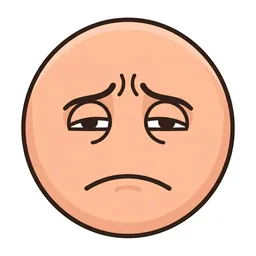
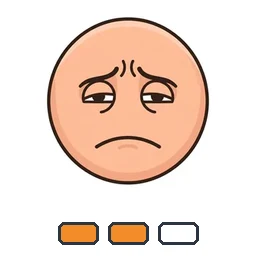
Phase 17 D and E: who it is for on the first screen; back from behind, the pain bars, Change it, the check
- D: under the hope line 'For you and someone with aphasia: you ask, hand them the phone,
  they point.'; the first block 'Type your question. We make picture answers.', the
  button 'Make picture answers'; the line under it says Google checks this browser first.
- E: the back (and upper and lower back) drawn from behind: hair, no face, the spine;
  'a little', 'quite bad', 'very bad' carry 1, 2 and 3 filled bars; 'Change it' opens
  About them at the emergency number, focused; one call box when an alert carries its
  own (phase 17 A); the check says 'Is that it?' beside a side and says a yes or no back
  in its own words ('So: yes, you are in pain. Right?').
- tests: phase17e.test.ts (4) and the D test in phase17g.test.ts, failing first at main.

diff --git a/web/src/main.ts b/web/src/main.ts
@@ -79,7 +79,7 @@ import { addEvent, cleanLog, lessSureCount, newLog, pickedPractice, practiceFlag
 import { passportLink, passportScreen, practiceScreen, type PassPicture } from './care7';
 import { fallbackLine, fallbackWhy, ownAfter, ownCard, ownFallbackCard, ownWaiting } from '../../core/ownwords';
 import { P16 } from '../../core/copy16';
-import { P17 } from '../../core/copy17';
+import { P17, soCheck } from '../../core/copy17';
 
 const $ = <T extends HTMLElement>(sel: string) => document.querySelector(sel) as T;
 const esc = (s: string) => s.replace(/[&<>"']/g, (c) => ({ '&': '&amp;', '<': '&lt;', '>': '&gt;', '"': '&quot;', "'": '&#39;' })[c]!);
@@ -1574,7 +1574,7 @@ function personView(full: boolean): string {
   }
   if (state.picked) {
     // a "no" or "not sure" sits in a neutral frame: never a giant cross above yes / change (§2.14)
-    return `${exit}<h2 class="headline">${esc(C.person.so(state.picked.label))}</h2>
+    return `${exit}<h2 class="headline">${esc(soCheck(state.picked.label, state.card?.kind === 'yesno' ? state.card.asked : ''))}</h2>
       <div class="confirm-pic ${state.picked.label === 'no' || state.picked.label === 'not sure' ? 'neutral' : ''}">${picture(state.picked)}<p>${esc(state.picked.label)}</p></div>
       <div class="tiles two"><button class="tile yes" data-confirm="yes">${TICK}<span>${C.person.yes}</span></button>
       <button class="tile" data-confirm="change">${CROSS}<span>${C.person.change}</span></button></div>`;
@@ -2914,7 +2914,13 @@ function act(el: HTMLElement) {
     case 'speak-yes': p5.speakSheet = false; if (state.demo) { p15speak.on = true; p15speak.ok = true; } else { state.settings.speak = true; state.settings.speakOk = true; saveSettings(); } render(); break;
     case 'speak-no': p5.speakSheet = false; render(); break;
     case 'speak-off': if (state.demo) p15speak.on = false; else { state.settings.speak = false; saveSettings(); } stopSound(); render(); break;
-    case 'sudden-number': state.aboutRow = 'health'; go('about'); window.scrollTo(0, 0); break;
+    // (phase 17, judge round 12, R11-P1-3 still open: "Change it" landed at the top of About them) the number field, open and focused
+    case 'sudden-number': {
+      state.aboutRow = 'health'; go('about');
+      const focusNumber = () => { const f = document.querySelector<HTMLInputElement>('#emergency-number'); if (!f) return false; f.scrollIntoView({ block: 'center' }); f.focus({ preventScroll: true }); return true; };
+      if (!focusNumber()) requestAnimationFrame(() => { if (!focusNumber()) window.scrollTo(0, 0); });
+      break;
+    }
     case 'log-undo': state.diary = removeEntry(state.diary, el.dataset.id ?? ''); saveDiary(); state.logged = null; render(); document.querySelector<HTMLElement>('#log-row button')?.focus({ preventScroll: true }); break;
     case 'diary-tab': state.diaryTab = el.dataset.tab as Span; state.logged = null; state.diaryCopied = false; render(); document.querySelector<HTMLElement>(`#tab-${state.diaryTab}`)?.focus({ preventScroll: true }); break;
     case 'diary-copy': {

diff --git a/core/copy16.ts b/core/copy16.ts
@@ -9,23 +9,25 @@ export type OwnFallbackWhy = 'no' | 'offline' | 'check' | 'failed' | 'none';
 
 export const P16 = {
   own: {
-    heading: 'Ask in your own words',
+    // (phase 17, judge round 12, the cold 10-second test 3/5: "Make the choices: who chooses?")
+    heading: 'Type your question. We make picture answers.',
     /** The field's example: an open question, the kind the rules cannot turn into choices and the AI can. */
     field: 'What would you like for lunch?',
     label: 'Your question, as you would say it',
     /** One line at 360 px (the name would wrap it): the card screen's button says whom they are for. */
-    make: 'Make the choices',
+    make: 'Make picture answers',
     /** One line under the button: what happens to the words, by where the AI runs here (core/simple.ts, aiPlace). */
     where: {
-      device: "Chrome's own AI on this computer makes the choices. Nothing is sent.",
-      ask: "Google's AI makes the choices, online, after your yes. Names you listed are swapped out.",
-      cloudOn: "Google's AI makes the choices, online (online help is on). Names you listed are swapped out.",
+      device: "Chrome's own AI on this computer makes them. Nothing is sent.",
+      // (phase 17: App Check starts when the field gets the cursor, so the line says so; no word of the question goes)
+      ask: "Google's AI makes them, online, after your yes. Google checks this browser first; your words wait for the yes.",
+      cloudOn: "Google's AI makes them, online (online help is on). Google checks this browser first.",
       offline: "You are offline: the app's rules make what they can from your words.",
       none: "This copy has no AI set up: the app's rules make what they can from your words.",
       checking: 'The app is checking where its AI can run here.',
     } as Record<string, string>,
     /** Under the "where" line, always: what never goes to an AI. */
-    never: "Pain, the body, feelings, warning signs: never to an AI, only the app's rules.",
+    never: "Pain, the body, warning signs: the app's fixed rules answer, never an AI.",
     topicsHeading: 'Or pick a topic',
   },
   /** The line over a card the rules made because the words were about care, a warning sign or a crisis. */

diff --git a/web/src/pictos.ts b/web/src/pictos.ts
@@ -58,6 +58,9 @@ const note = (x: number, y: number, fill: string) => `<path d="M${x + 10} ${y + 
 // The body figure faces the viewer, so the person's LEFT is on the viewer's right (x > 48). Labels say "your left arm".
 const HI = C.red;
 const BODY_OUTLINE = `<path d="M34 30l-12 28M62 30l12 28" stroke="${C.skinShade}" stroke-width="7"/><path d="M38 64l-4 26M58 64l4 26" stroke="${C.navy}" stroke-width="8"/><path d="M34 28h28l4 36H30z" fill="${C.sky}"/><circle cx="48" cy="14" r="9" fill="${C.skin}"/>`;
+/** Phase 17: the same figure seen from behind: the back of the head (hair, no face), the spine, a turn-round arrow. */
+const BODY_BEHIND = `<path d="M34 30l-12 28M62 30l12 28" stroke="${C.skinShade}" stroke-width="7"/><path d="M38 64l-4 26M58 64l4 26" stroke="${C.navy}" stroke-width="8"/><path d="M34 28h28l4 36H30z" fill="${C.sky}"/><circle cx="48" cy="14" r="9" fill="${C.hair}"/><path d="M41 9c4-3 10-3 14 0" stroke="${C.black}" stroke-width="2"/><path d="M48 31v31" stroke="${C.navy}" stroke-width="2"/><path d="M45 36h6M45 44h6M45 52h6" stroke="${C.navy}" stroke-width="2"/><path d="M76 10a9 9 0 11-9-6" stroke="${OUTLINE}" stroke-width="3"/><path d="M64 1l4 4-5 3" stroke="${OUTLINE}" stroke-width="3"/>`;
+const BACK_PARTS = ['back', 'upper back', 'lower back'];
 const BODY_HIGHLIGHT: Record<string, string> = {
   head: `<circle cx="48" cy="14" r="9" fill="${HI}"/>`,
   face: `<circle cx="48" cy="15" r="6.5" fill="${HI}" stroke="none"/>`,
@@ -244,7 +247,9 @@ export const imageFile = (id: string) => `pictures/${id.replace(/[^a-z0-9]+/g, '
 export function svgPicto(id: string): string {
   if (id.startsWith('body:')) {
     const part = id.slice(5);
-    return svg(BODY_OUTLINE + (BODY_HIGHLIGHT[part] ?? ''), part);
+    // (phase 17, judge round 12, seat 02n, ADV-02n-4: "back" read as the chest) the back is drawn from behind: hair over the
+    // whole head, no face, the spine down the middle, and a small arrow that turns round
+    return svg((BACK_PARTS.includes(part) ? BODY_BEHIND : BODY_OUTLINE) + (BODY_HIGHLIGHT[part] ?? ''), part);
   }
   return svg(P[id] ?? P['something else'], id);
 }

diff --git a/tests/unit/phase17e.test.ts b/tests/unit/phase17e.test.ts
@@ -1,0 +1,34 @@
+// Phase 17 E (judge round 12, P1s: seats 02n, 05, 13, 13b), written before the code (failing first: devlog/evidence_phase17/).
+import { readFileSync } from 'node:fs';
+import { join } from 'node:path';
+import { describe, expect, it } from 'vitest';
+import { svgPicto as picto } from '../../web/src/pictos';
+
+const ROOT = join(__dirname, '..', '..');
+
+describe('E. pictures and checks', () => {
+  it('the back is drawn from behind: hair over the head and the spine, not the front figure', () => {
+    const back = picto('body:back');
+    const chest = picto('body:chest');
+    expect(back).not.toBe(chest.replace('chest', 'back'));
+    expect(back).toContain('M48 31v31');
+    expect(chest).not.toContain('M48 31v31');
+  });
+  it('"a little", "quite bad" and "very bad" carry 1, 2 and 3 filled bars (the pictures differ at a glance)', () => {
+    const md = readFileSync(join(ROOT, 'PICTOGRAMS.md'), 'utf8');
+    expect(md).toMatch(/phase 17: one, two and three filled bars/);
+  });
+  it('"Change it" opens About them at the emergency number, focused', () => {
+    const main = readFileSync(join(ROOT, 'web/src/main.ts'), 'utf8');
+    expect(main).toContain("const f = document.querySelector<HTMLInputElement>('#emergency-number');");
+    expect(main).toContain('f.focus({ preventScroll: true });');
+  });
+  it('the check never puts "Right?" beside a side, and says a yes or no back in its own words', async () => {
+    const { soCheck } = await import('../../core/copy17');
+    expect(soCheck('your left arm')).toBe('So: your left arm. Is that it?');
+    expect(soCheck('yes', 'Are you in pain?')).toBe('So: yes, you are in pain. Right?');
+    expect(soCheck('no', 'Are you in pain?')).toBe('So: no, you are not in pain. Right?');
+    expect(soCheck('yes', 'Would you like milk in it?')).toBe('So: yes, you would like milk in it. Right?');
+    expect(soCheck('tea')).toBe('So: tea. Right?');
+  });
+});

diff --git a/core/copy17.ts b/core/copy17.ts
@@ -30,3 +30,31 @@ export const P17 = {
   shortBy: "Google's AI wrote the short question on their screen. Say yours out loud as well.",
   shortByDevice: "Chrome's own AI wrote the short question on their screen. Say yours out loud as well.",
 };
+
+/**
+ * Phase 17 (judge round 12, seats 02n and 13: "So: your left arm. Right?" puts "Right?" beside a side, and "So: yes.
+ * Right?" after "Are you in pain?" says nothing of what was answered): the check on the person's screen. A side is
+ * checked with "Is that it?"; a yes or a no to a short yes / no question is said back in its own words ("So: yes, you
+ * are in pain. Right?"). Anything else stays "So: tea. Right?".
+ */
+const SIDE = /\b(?:left|right)\b/i;
+function restate(asked: string, yes: boolean): string | null {
+  const q = asked.trim().replace(/\?+$/, '').replace(/,?\s*yes or no$/i, '').replace(/\s+/g, ' ');
+  const not = yes ? '' : 'not ';
+  let m: RegExpMatchArray | null;
+  if ((m = q.match(/^are you (.+)$/i))) return `you are ${not}${m[1]}`;
+  if ((m = q.match(/^is (it|that|this|your \w+) (.+)$/i))) return `${m[1].toLowerCase()} is ${not}${m[2]}`;
+  if ((m = q.match(/^do you (want|need|have|feel|like) (.+)$/i))) return yes ? `you ${m[1].toLowerCase()} ${m[2]}` : `you do not ${m[1].toLowerCase()} ${m[2]}`;
+  if ((m = q.match(/^would you like (.+)$/i))) return yes ? `you would like ${m[1]}` : `you would not like ${m[1]}`;
+  return null;
+}
+export function soCheck(label: string, asked = ''): string {
+  const l = label.trim();
+  if (SIDE.test(l)) return `So: ${l}. Is that it?`;
+  const yn = l.toLowerCase();
+  if ((yn === 'yes' || yn === 'no') && asked) {
+    const r = restate(asked, yn === 'yes');
+    if (r && r.length <= 48 && !SIDE.test(r)) return `So: ${yn}, ${r}. Right?`;
+  }
+  return `So: ${l}. Right?`;
+}

diff --git a/web/src/simple.ts b/web/src/simple.ts
@@ -22,6 +22,7 @@ import type { Topic, TopicId } from '../../core/topics';
 import type { Card, Choice, Profile } from '../../core/types';
 import { decoPicto } from './pictos';
 import { DEFAULT_NUMBER, crisisAnswer } from '../../core/redflag';
+import { P17, soCheck } from '../../core/copy17';
 import { P16 } from '../../core/copy16';
 
 const esc = (s: string) => s.replace(/[&<>"']/g, (c) => ({ '&': '&amp;', '<': '&lt;', '>': '&gt;', '"': '&quot;', "'": '&#39;' })[c]!);
@@ -199,6 +200,7 @@ export function homeScreen(m: HomeModel): string {
   ${navBar({ back: false, name: m.name })}
   <div class="col">
     <h1 id="hope">${esc(S.hope(m.name))}</h1>
+    <p class="who-line" id="who-line">${esc(P17.who(m.name))}</p>
     ${painLater ? m.laterHtml : ''}
     ${ownBlock(m, status)}
     <button type="button" class="btn needs" data-act="needs">${SIGN.grid}<span><b>${S.needs}</b><small>${esc(S.needsSub(m.name))}</small></span></button>
@@ -271,7 +273,7 @@ export function personSimple(m: PersonModel): string {
       ${m.full ? `<button type="button" class="p-give" data-act="give-back">${P.give}</button>` : ''}`;
   }
   if (m.picked) {
-    return `${hold}<p class="p-do" id="p-so">${esc(P.so(m.picked.label))}</p>
+    return `${hold}<p class="p-do" id="p-so">${esc(soCheck(m.picked.label, m.card?.kind === 'yesno' ? m.card.asked : ''))}</p>
       <div class="p-pick">${m.pic(m.picked)}<p class="p-big">${esc(m.picked.label)}</p></div>${yesNo('yes', 'change')}`;
   }
   const headLines = `<p class="p-do">${P.point}</p><p class="p-ask">${esc(c.asked)}</p>`;

diff --git a/tests/unit/phase17g.test.ts b/tests/unit/phase17g.test.ts
@@ -104,3 +104,17 @@ describe('G3. letter by letter: the guess narrows', () => {
     expect(main).toContain('letter: `${l.prefix ?? \'\'}${t.dataset.letter!}`');
   });
 });
+
+describe('D. the cold 10 seconds: who it is for, and that they point after you hand over', () => {
+  it('one line under the hope line; the first block says what it does in at most 8 words', async () => {
+    const { homeScreen } = await import('../../web/src/simple');
+    const { P16 } = await import('../../core/copy16');
+    const html = homeScreen({ name: '', number: '911', topics: [], topicOpen: null, aiTag: null, ai: [], privacy: [], question: '', busy: false, error: null, howOpen: false, ownWhere: P16.own.where.ask } as never);
+    expect(html).toContain('For you and someone with aphasia: you ask, hand them the phone, they point.');
+    expect(html.indexOf('id="who-line"')).toBeLessThan(html.indexOf('id="own-h"'));
+    expect(P16.own.heading).toBe('Type your question. We make picture answers.');
+    expect(P16.own.heading.replace(/[.]/g, '').split(/\s+/).length).toBeLessThanOrEqual(8);
+    expect(P16.own.make).toBe('Make picture answers');
+    expect(P16.own.where.ask).toMatch(/Google checks this browser first; your words wait for the yes\./);
+  });
+});

diff --git a/tests/unit/simple-view.test.ts b/tests/unit/simple-view.test.ts
@@ -53,9 +53,9 @@ describe('simple view: the first screen', () => {
     expect(out.indexOf('data-act="needs"')).toBeLessThan(out.indexOf('id="how"'));
     expect(out.indexOf('data-act="needs"')).toBeLessThan(out.indexOf('class="topic'));
   });
-  it('one main button, "Make the choices"; the own words come first, the topics after them', () => {
+  it('one main button, "Make picture answers" (phase 17); the own words come first, the topics after them', () => {
     expect(count(out, 'class="btn primary"')).toBe(1);
-    expect(out).toContain('>Make the choices</button>');
+    expect(out).toContain('>Make picture answers</button>');
     expect(out.indexOf('id="q"')).toBeLessThan(out.indexOf('class="topic'));
   });
   it('no empty video slot, no walkthrough, no About-them form and no ready-made example rows', () => {

diff --git a/tests/unit/needs.test.ts b/tests/unit/needs.test.ts
@@ -91,7 +91,7 @@ describe('the quick-needs board: the tick / cross check, and whose side says wha
     const main = read('web/src/main.ts');
     const view = main.slice(main.indexOf('function personView('), main.indexOf('function personScreen('));
     // the check and the confirmed answer come before the board in personView, so a tapped need is checked like any choice
-    const check = view.indexOf('C.person.so(state.picked.label)');
+    const check = view.indexOf('soCheck(state.picked.label') // (phase 17: core/copy17.ts, soCheck);
     const board = view.indexOf("if (c.kind === 'needs')");
     expect(check).toBeGreaterThan(0);
     expect(board).toBeGreaterThan(check);

diff --git a/web/src/simple.css b/web/src/simple.css
@@ -777,3 +777,6 @@
 .simple .own-why { display: flex; align-items: flex-start; gap: 10px; font-size: 16px; color: var(--ink); border: 2px solid var(--accent); background: var(--accent-soft); border-radius: 14px; padding: 10px 12px; }
 .simple .own-why .sg { width: 22px; height: 22px; flex: none; color: var(--accent); margin-top: 1px; }
 .simple .own-why b { display: block; }
+
+/* phase 17: who it is for, under the hope line (the cold 10-second test) */
+.simple .who-line { margin: -6px 0 2px; font-size: 17px; line-height: 1.35; color: var(--ink); }

diff --git a/PICTOGRAMS.md b/PICTOGRAMS.md
@@ -67,7 +67,7 @@ head colour and differ by one attribute each; the figures made with Gemini show 
 | a little | one blue bar of four | drawn by us (SVG) | 18 Nov 2026 (colour; first drawn 9–10 Nov 2026 as a line drawing) | Apache-2.0 |
 | some | two blue bars of four | drawn by us (SVG) | 18 Nov 2026 (colour; first drawn 9–10 Nov 2026 as a line drawing) | Apache-2.0 |
 | a lot | four blue bars of four | drawn by us (SVG) | 18 Nov 2026 (colour; first drawn 9–10 Nov 2026 as a line drawing) | Apache-2.0 |
-| pain mild | a round face, brows raised at the inner ends, a flat mouth (the pain scale's "a little"; one of three faces from calm to crying, drawn for this app) | Generated with Gemini 3.1 Flash Image (`gemini-3.1-flash-image`) in Google AI Studio, generated offline, bundled; no model call at run time; reviewed by a person | 22 Nov 2026 (in place of our drawing, which read as angry, after judge round 9b) | output used under the Gemini API terms; no copyright claimed by us beyond what applies |
+| pain mild | a round face, brows raised at the inner ends, a flat mouth (the pain scale's "a little"; since 24 Nov 2026, phase 17: one, two and three filled bars under the three faces, added by us in code (scripts: Pillow, no model), so "a little" and "quite bad" differ at a glance; one of three faces from calm to crying, drawn for this app) | Generated with Gemini 3.1 Flash Image (`gemini-3.1-flash-image`) in Google AI Studio, generated offline, bundled; no model call at run time; reviewed by a person | 22 Nov 2026 (in place of our drawing, which read as angry, after judge round 9b) | output used under the Gemini API terms; no copyright claimed by us beyond what applies |
 | pain medium | a face, inner brows raised and drawn together, eyes half closed, the mouth turned down (the pain scale's "quite bad") | Generated with Gemini 3.1 Flash Image (`gemini-3.1-flash-image`) in Google AI Studio, generated offline, bundled; no model call at run time; reviewed by a person | 22 Nov 2026 (in place of our drawing, which read as angry, after judge round 9b) | output used under the Gemini API terms; no copyright claimed by us beyond what applies |
 | pain strong | a round face, eyes squeezed shut, inner brows raised, an open down-turned grimace, a tear (the pain scale's "very bad") | Generated with Gemini 3.1 Flash Image (`gemini-3.1-flash-image`) in Google AI Studio, generated offline, bundled; no model call at run time; reviewed by a person | 22 Nov 2026 (in place of our drawing, which read as laughing, after judge round 9b) | output used under the Gemini API terms; no copyright claimed by us beyond what applies |
 | needs | four coloured squares, as on the needs button (the person's "I need something") | drawn by us (SVG) | 22 Nov 2026 | Apache-2.0 |
